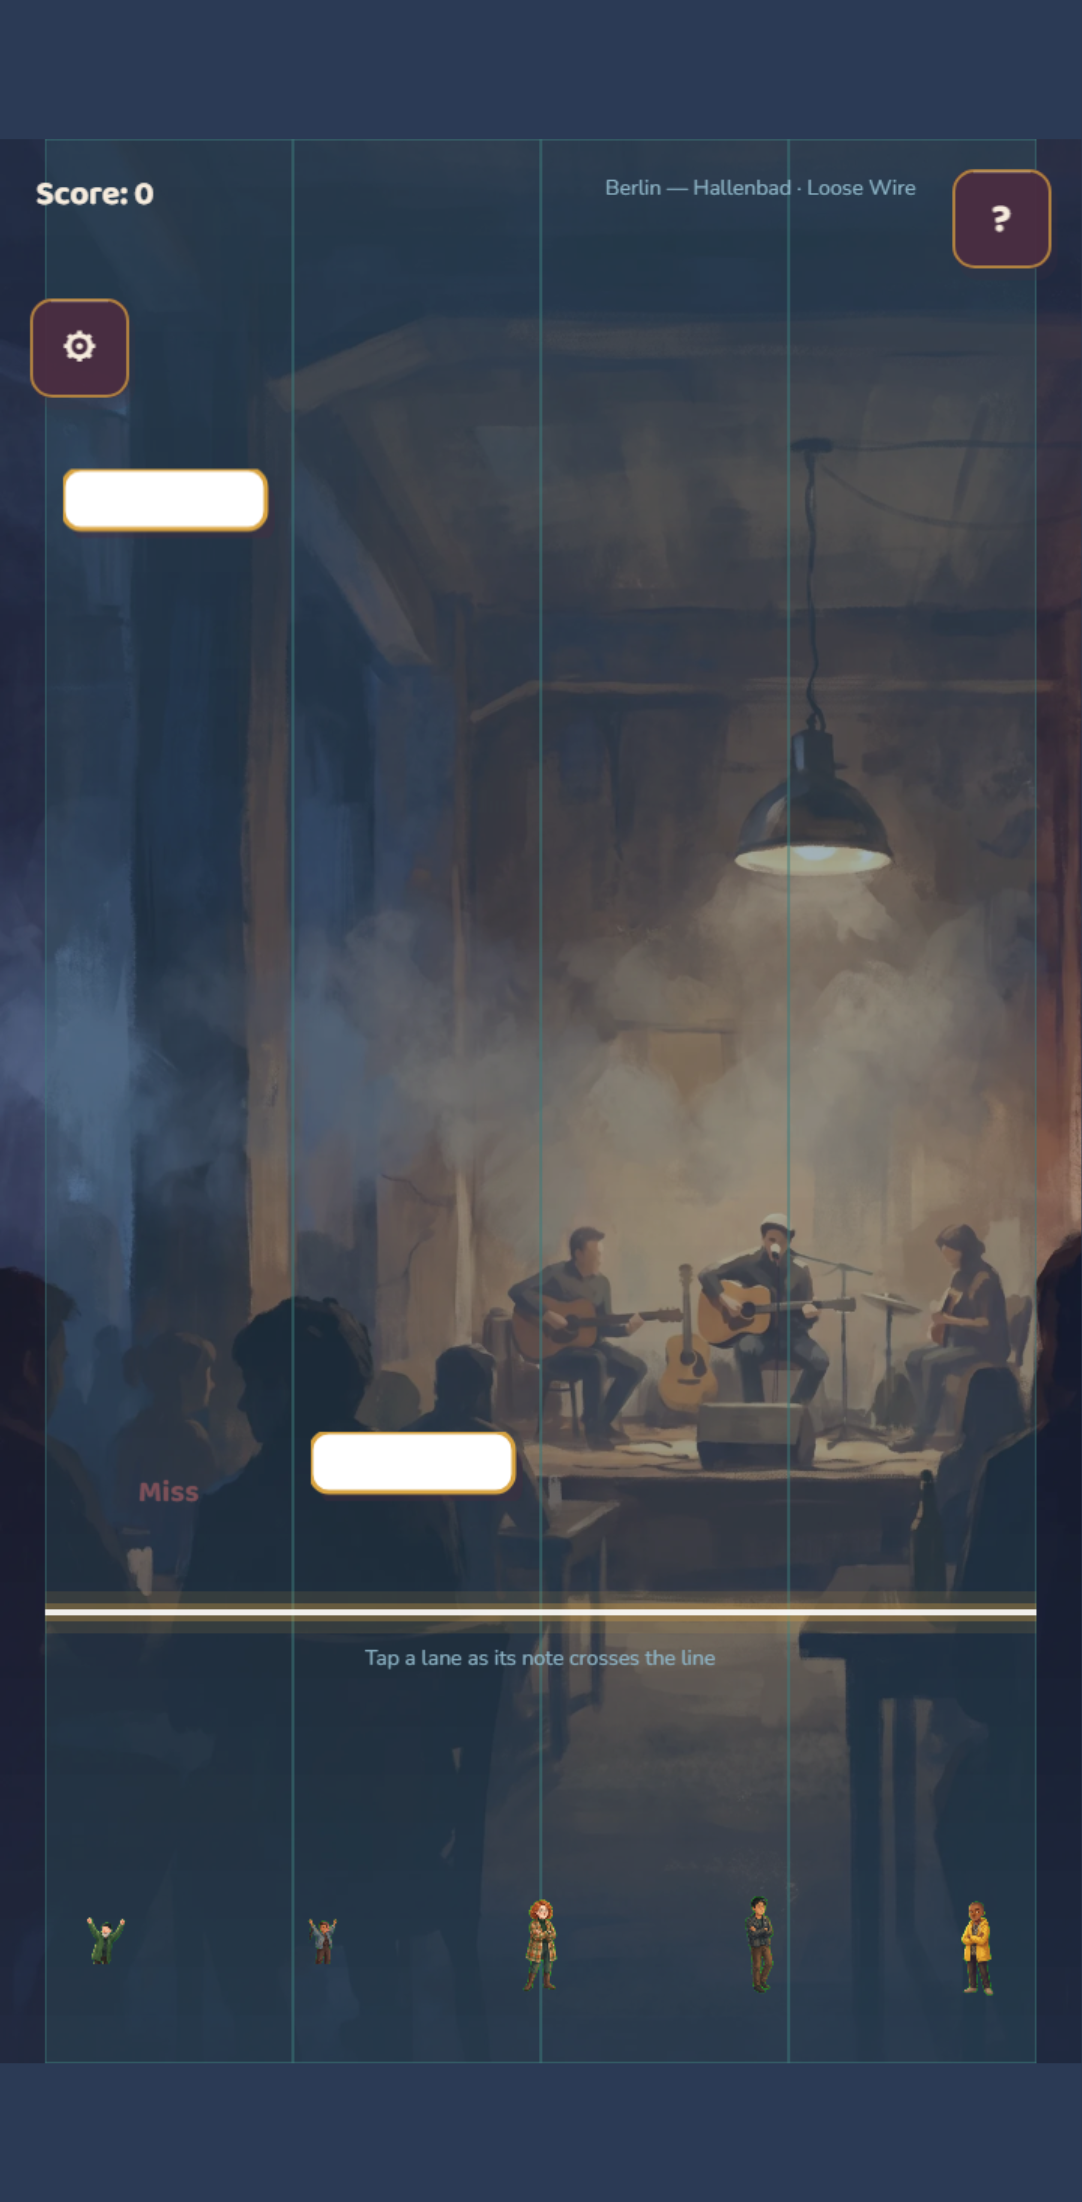
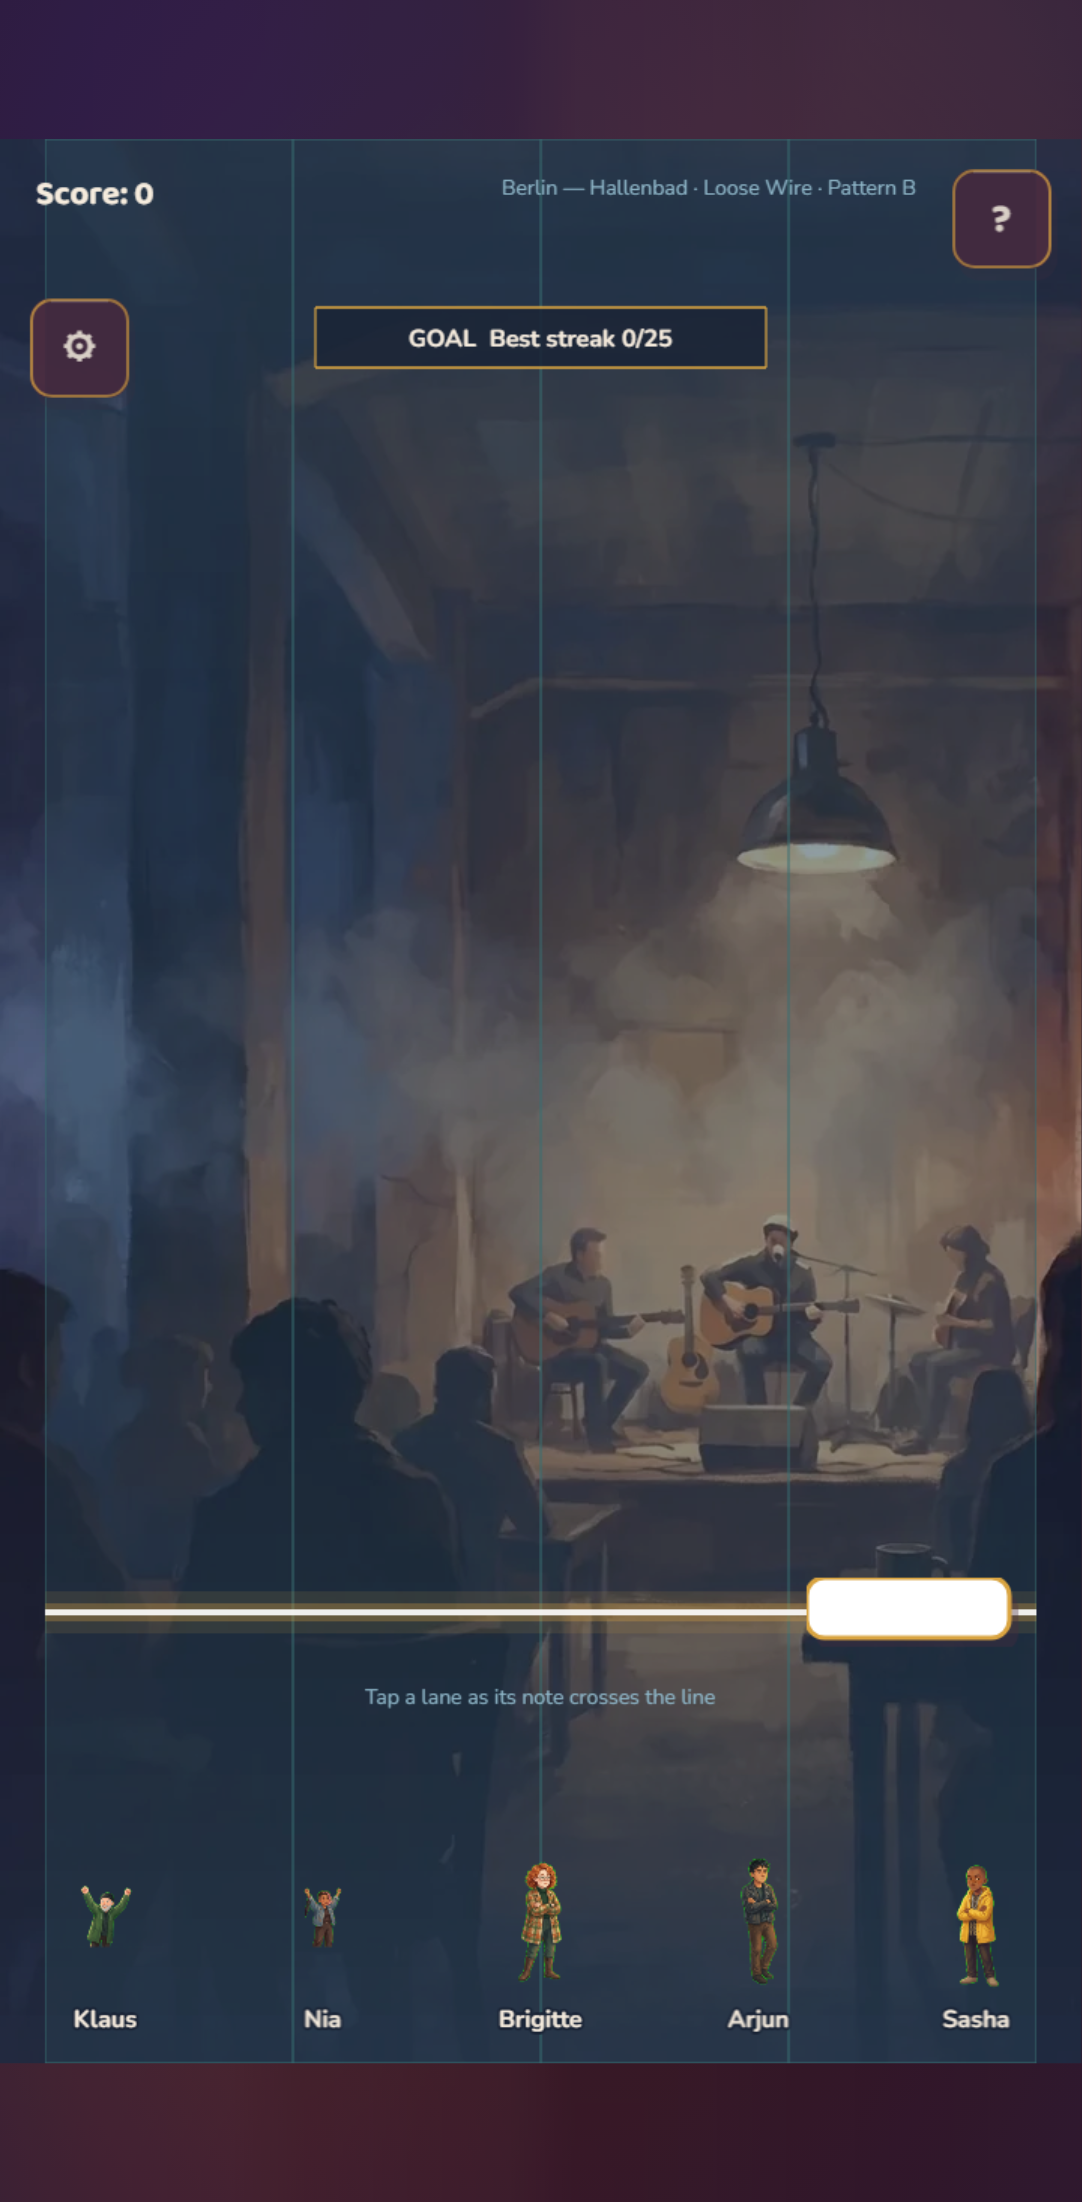
Press kit: drop the state from the developer line

diff --git a/public/presskit/index.html b/public/presskit/index.html
@@ -131,7 +131,7 @@
         <div>
           <h2 id="facts">Fact sheet</h2>
           <dl class="sheet">
-            <dt>Developer</dt><dd>Bennett AI Solutions Inc. (Kentucky, USA)</dd>
+            <dt>Developer</dt><dd>Bennett AI Solutions Inc.</dd>
             <dt>Publisher</dt><dd>Self-published</dd>
             <dt>Platform</dt><dd>Web: desktop and mobile browsers</dd>
             <dt>Release</dt><dd>Live now, free</dd>
